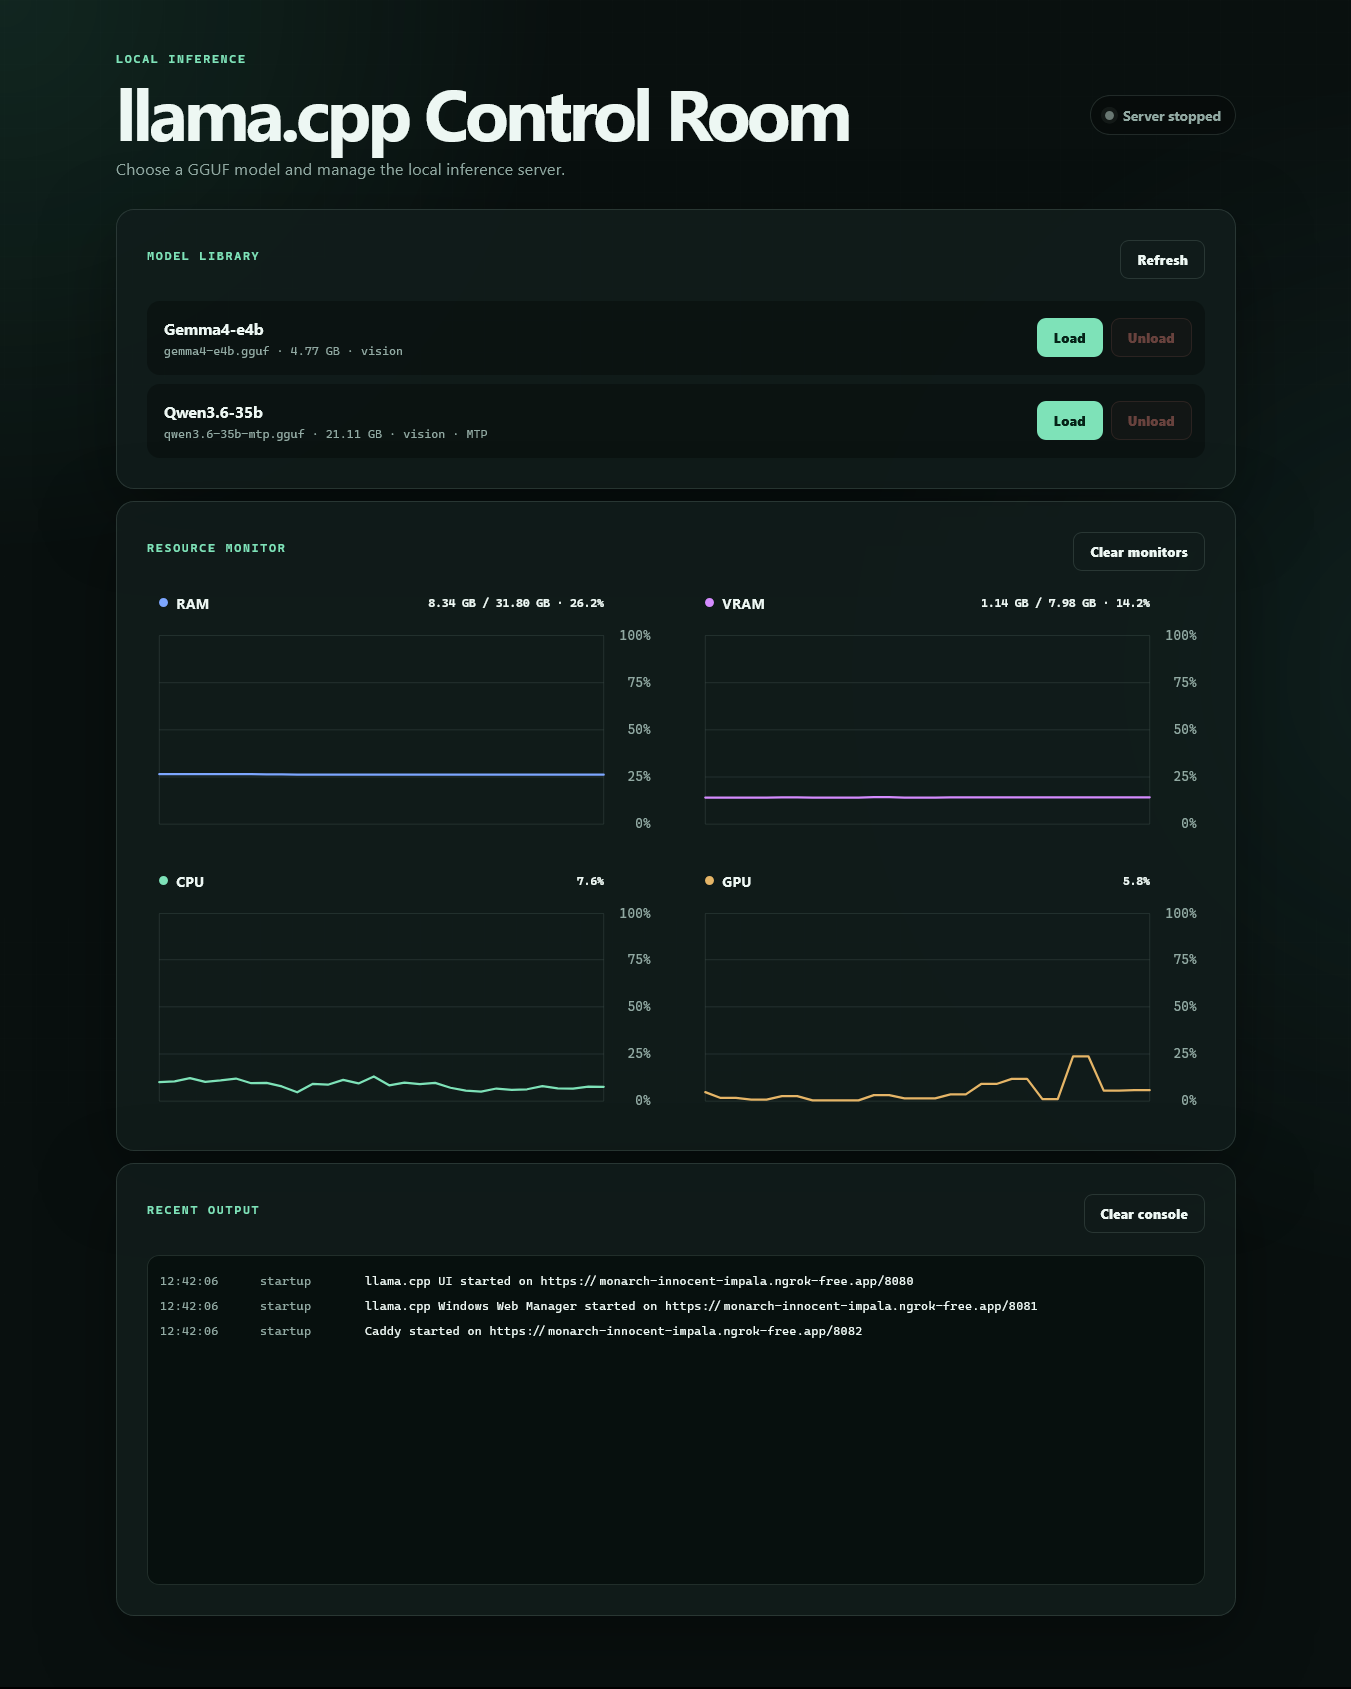
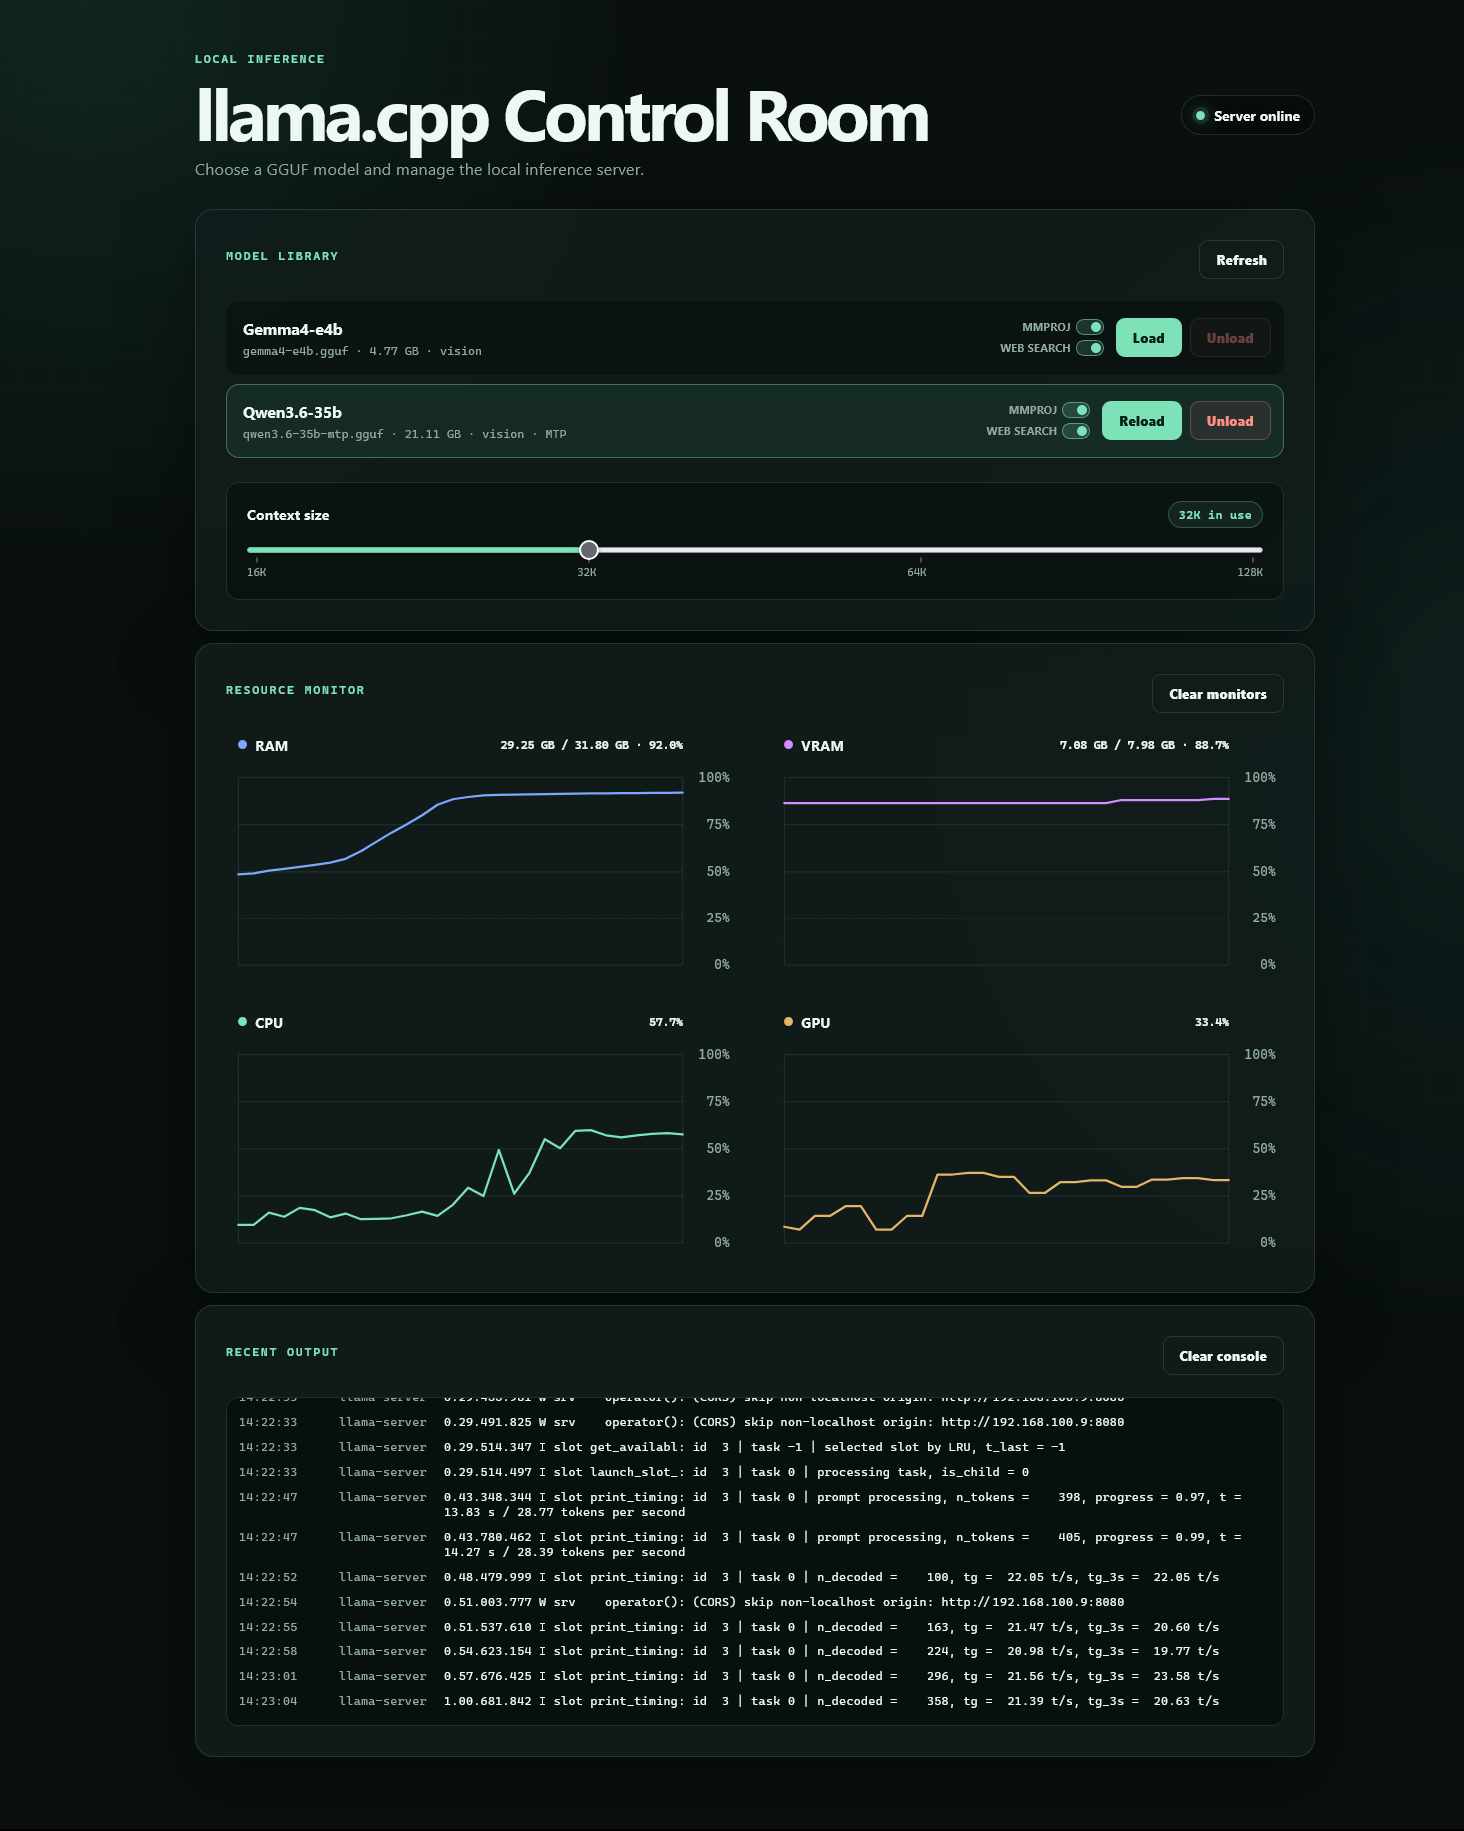
Require explicit SEARXNG_URL & simplify discovery
Load SEARXNG_URL from the project's .env and require an explicit http(s) URL. Remove automatic discovery of SearXNG instances and related helper code; always use the configured instance and validate it contains no credentials or fragment. Update .env.example to set SEARXNG_URL to http://127.0.0.1:8083 and relocate related web search variables. Also remove an unused import (random).

diff --git a/web_search.py b/web_search.py
@@ -6,7 +6,6 @@ import io
 import ipaddress
 import json
 import os
-import random
 import socket
 import sys
 from html.parser import HTMLParser
@@ -16,14 +15,18 @@ from urllib.error import HTTPError, URLError
 from urllib.parse import urlencode, urljoin, urlparse
 from urllib.request import HTTPRedirectHandler, Request, build_opener, urlopen
 
+from dotenv import load_dotenv
 
-DEFAULT_SEARXNG_URL = "auto"
+
+PROJECT_DIR = Path(__file__).resolve().parent
+load_dotenv(PROJECT_DIR / ".env")
+
+DEFAULT_SEARXNG_URL = os.environ["SEARXNG_URL"].strip()
 DEFAULT_MAX_RESULTS = 5
 DEFAULT_TIMEOUT_SECONDS = 15
 DEFAULT_FETCH_MAX_CHARS = 30_000
 DEFAULT_AGENTIC_MAX_TURNS = 15
 MAX_FETCH_BYTES = 2_000_000
-SEARXNG_INSTANCES_URL = "https://searx.space/data/instances.json"
 
 
 def validate_web_search_configuration(
@@ -33,13 +36,10 @@ def validate_web_search_configuration(
     fetch_max_chars: int = DEFAULT_FETCH_MAX_CHARS,
     agentic_max_turns: int = DEFAULT_AGENTIC_MAX_TURNS,
 ) -> None:
-    if searxng_url.lower() == "auto":
-        parsed = None
-    else:
-        parsed = urlparse(searxng_url)
-    if parsed and (parsed.scheme not in {"http", "https"} or not parsed.hostname):
-        raise ValueError("SEARXNG_URL must be 'auto' or a valid http:// or https:// URL")
-    if parsed and (parsed.username or parsed.password or parsed.fragment):
+    parsed = urlparse(searxng_url)
+    if parsed.scheme not in {"http", "https"} or not parsed.hostname:
+        raise ValueError("SEARXNG_URL must be a valid http:// or https:// URL")
+    if parsed.username or parsed.password or parsed.fragment:
         raise ValueError("SEARXNG_URL cannot contain credentials or a fragment")
     if not 1 <= max_results <= 20:
         raise ValueError("WEB_SEARCH_MAX_RESULTS must be between 1 and 20")
@@ -184,33 +184,6 @@ def _normalize_results(raw_results: Any, max_results: int) -> list[dict[str, Any
     return results
 
 
-def _discover_searxng_instances(timeout_seconds: int) -> list[str]:
-    request = Request(
-        SEARXNG_INSTANCES_URL,
-        headers={"Accept": "application/json", "User-Agent": "Mozilla/5.0"},
-    )
-    with urlopen(request, timeout=timeout_seconds) as response:
-        payload = json.load(response)
-    candidates: list[tuple[float, str]] = []
-    for url, details in payload.get("instances", {}).items():
-        if not isinstance(details, dict):
-            continue
-        search_timing = details.get("timing", {}).get("search", {})
-        if (
-            details.get("main") is True
-            and details.get("network_type") == "normal"
-            and not details.get("error")
-            and details.get("http", {}).get("status_code") == 200
-            and search_timing.get("success_percentage", 0) >= 80
-        ):
-            median = search_timing.get("all", {}).get("median") or 30.0
-            candidates.append((float(median), url))
-    candidates.sort(key=lambda item: item[0])
-    fastest = [url for _, url in candidates[:20]]
-    random.SystemRandom().shuffle(fastest)
-    return fastest
-
-
 def _search_searxng_instance(
     query: str,
     base_url: str,
@@ -281,29 +254,19 @@ def search_searxng(
         raise ValueError("Search query cannot exceed 500 characters")
 
     validate_web_search_configuration(searxng_url, max_results, timeout_seconds)
-    instance_urls: list[str] = []
-    if searxng_url.lower() == "auto":
-        try:
-            instance_urls = _discover_searxng_instances(timeout_seconds)[:4]
-        except (HTTPError, URLError, OSError, json.JSONDecodeError, ValueError):
-            pass
-    else:
-        instance_urls = [searxng_url]
-
-    for instance_url in instance_urls:
-        try:
-            results = _search_searxng_instance(
-                query, instance_url, max_results, min(timeout_seconds, 8)
-            )
-            if results:
-                return {
-                    "query": query,
-                    "provider": "SearXNG",
-                    "instance": instance_url,
-                    "results": results,
-                }
-        except (HTTPError, URLError, OSError, ValueError):
-            continue
+    try:
+        results = _search_searxng_instance(
+            query, searxng_url, max_results, min(timeout_seconds, 8)
+        )
+        if results:
+            return {
+                "query": query,
+                "provider": "SearXNG",
+                "instance": searxng_url,
+                "results": results,
+            }
+    except (HTTPError, URLError, OSError, ValueError):
+        pass
 
     try:
         results = _search_python_fallback(query, max_results, timeout_seconds)
